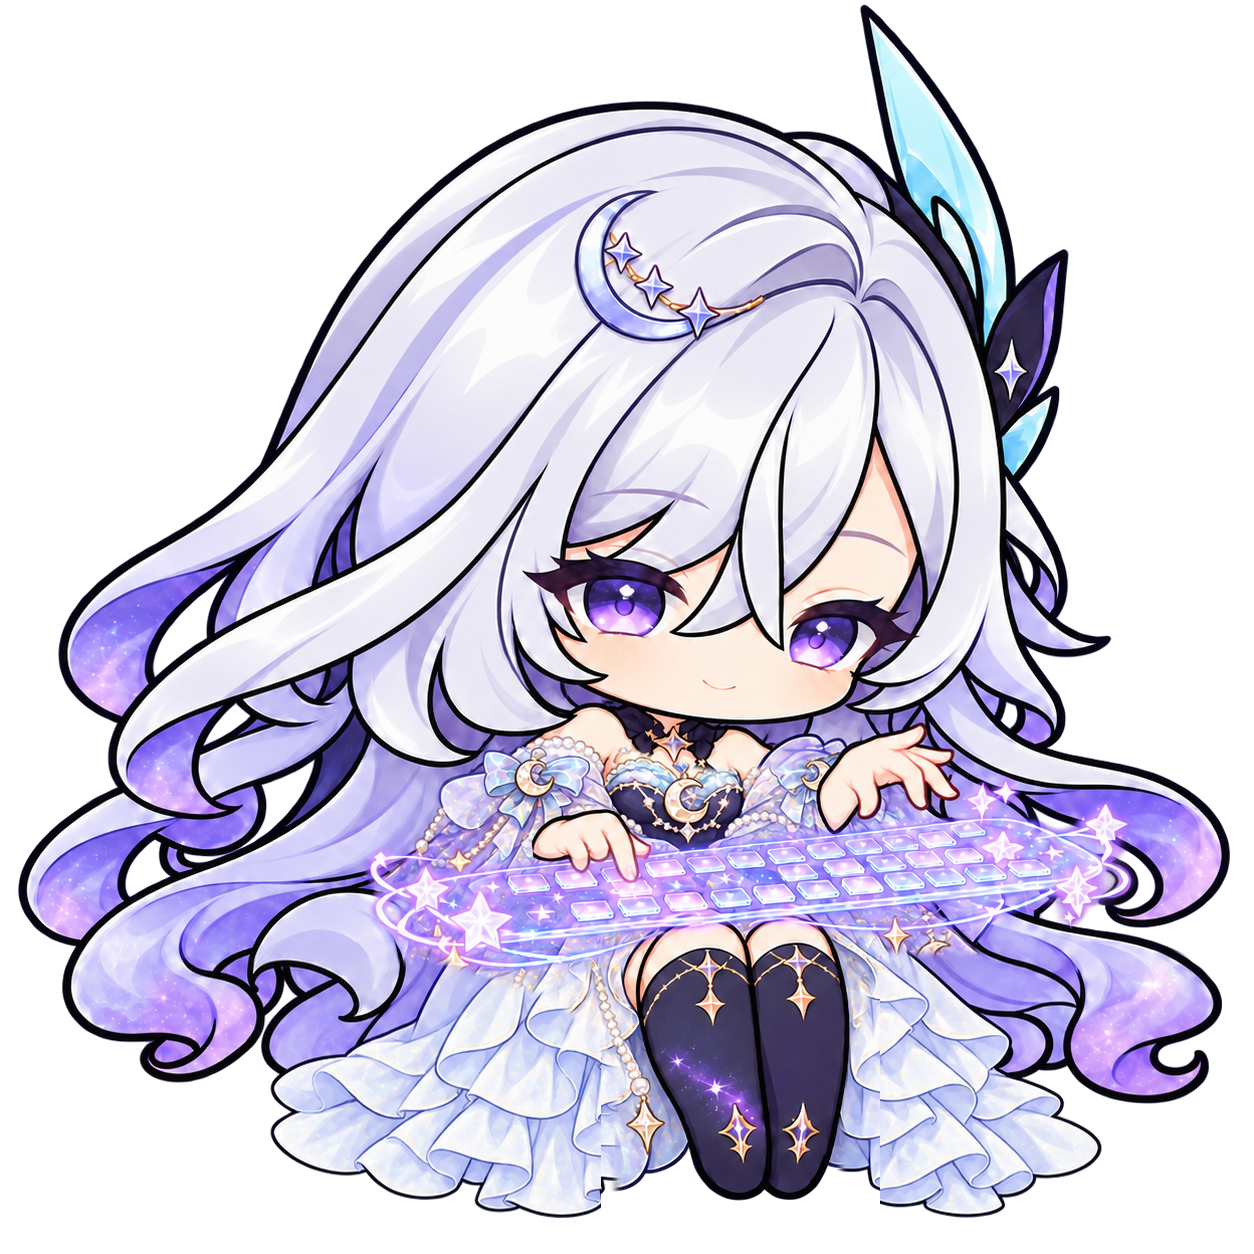
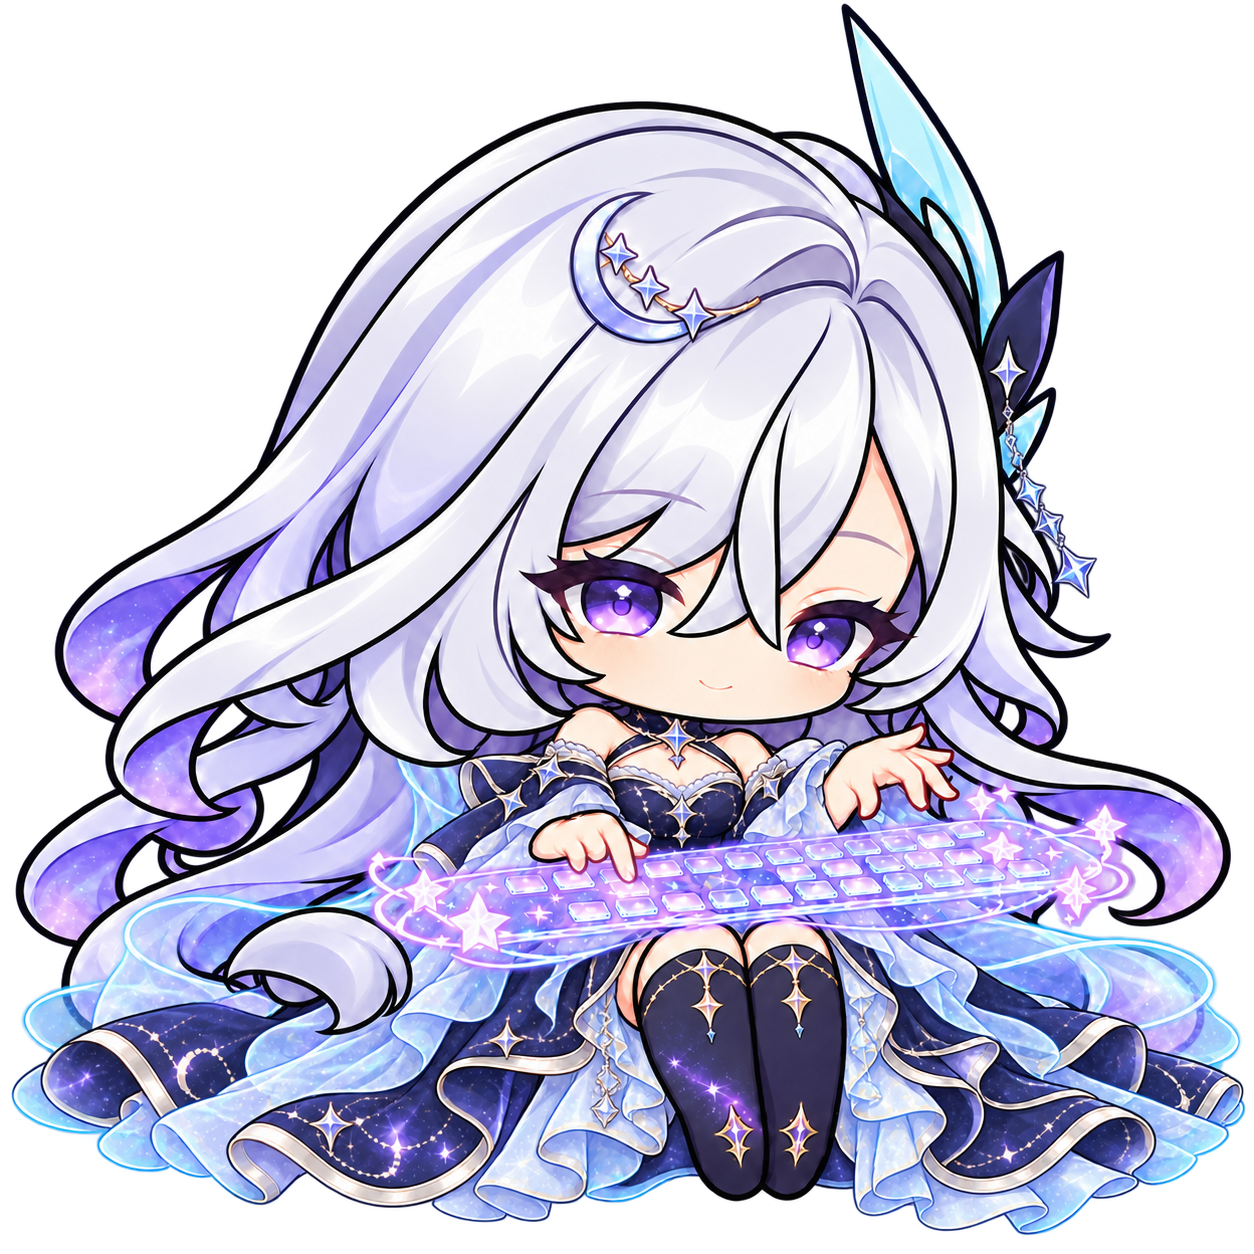
art: complete Starsea gown thinking and typing frames
Finish 100 of 110 step-one sprites with opposite-cheek thinking and the three original keyboard gestures. Validate dimensions, alpha and distinct decoded pixel data; preserve rarity costume silhouettes. Only the ten wave sprites remain; no step 2 or publishing.

diff --git a/HANDOFF.md b/HANDOFF.md
@@ -1,5 +1,6 @@
 # Current Progress
-- IN PROGRESS: 80/110 saved and inspected; next generate thinking_2 and typing_1, then typing_2/typing_3 and wave_1/wave_2. Step 1 only; built-in imagegen, no API or push.
+- IN PROGRESS: 100/110 saved and inspected; only wave_1/wave_2 in the five tiers remain. Next generate these ten sprites, run full scope/PNG/Qt decoder and visual QA, then record completed step 1 and commit locally. No API, push or step 2.
+- Milestone 100/110: thinking_2 and typing_1..3 complete for all tiers. Thoughtful opposite-cheek support and three distinct keyboard hand poses inspected in five-tier comparison sheets; keyboard retained as the existing action prop with blank keycaps. All 100 images decode at 1254x1254 RGBA with 100 unique file hashes AND 100 unique decoded pixel arrays, alpha extrema 0/255. Three known corners have alpha=1 residue (xinghai/dragged_1, fanxing/headpat_1, fanxing/typing_3); other checked corners zero. Global PySide6 is available for final native PNG-decoder validation.
 - 2026-10-13 recovery milestone: fanxing/haori sleep_1 corrected using original pose as sole image input; both visible bbox tops are y171, equal to the reference, rather than the rejected y309/y290. All five sleep_2 and thinking_1 frames completed. Sleep_2 reference bbox top y97, tier tops y96/y96/y94/y95/y94; side-lying head size/boot orientation visually retained. Sleep and thinking comparison sheet inspected. Cumulative 80 PNGs decode at 1254x1254 RGBA, have 80 unique SHA256s and alpha 0/255; only the previously documented two alpha=1 corner pixels remain. No rejected sleep frames remain in the deliverables. Thirty sprites are still outstanding.
 - Quota recheck 2026-10-12 23:04:32 -04:00: retried fanxing/sleep_1 pose correction; built-in imagegen still returns HTTP 429 usage_limit_reached, with unchanged recovery timestamp 1791926437 (2026-10-13 17:20:37 America/Toronto). No sprite changed; still 68/110 delivered, 42 outstanding. Next step remains the two sleep_1 registration fixes after recovery; no paid API or step 2.
 - **PRIOR CHECKPOINT: 68/110 DELIVERED, STEP 1 INCOMPLETE — QUOTA BLOCKED AGAIN.** 2026-10-12 continuation added 50 usable redrawn sprites to the original 18. All tiers have idle_1..4, idle_blink, celebrate_1..2, dragged_1, headpat_1..2, poked_1, sad_1 and sad_blink (65 total); mingyue/yinhe/xinghai also have sleep_1 (3 total). Root STARSEA_GOWN_PREVIEW.png still shows the five new idle_1 costumes. No step 2, paid API, code edits, merge or push.
@@ -105,7 +106,7 @@
 - Explicit Git allowlists. Current authorization permits GitHub main/tag/release as v1.3.0; APP_VERSION is promoted to1.3.0. Preserve local stable installation and unrelated .autopilot. Existing public repository and fast-forward history are retained.
 
 # Next Steps
-- [ ] (Starsea gown, highest priority) Continue every tier's `thinking_2`, `typing_1`, `typing_2`, `typing_3`, `wave_1`, `wave_2` (30 outstanding). Check alignment/continuity and rarity differences, verify full 110-file scope, refresh preview if needed, then commit the COMPLETED step 1 locally and report its hash. Do not push or switch to paid API. Step 2 requires the user's acceptance of completed step 1.
+- [ ] (Starsea gown, highest priority) Continue every tier's `wave_1`, `wave_2` (10 outstanding). Check alignment/continuity and rarity differences, verify full 110-file scope with Pillow and Qt PNG decoding, refresh preview if needed, then commit the COMPLETED step 1 locally and report its hash. Do not push or switch to paid API. Step 2 requires the user's acceptance of completed step 1.
 - [x] Human accepted V1.4; Codex V1.4 work ended.
 - [ ] Await next user assignment after V1.5 Codex-only local commit/report; user forwards shared compatibility UI and historical resize-test requirements to Claude.
 - Claude owns V1.5 shared integration/build/merge; human owns acceptance. Codex must not expand file scope, cross-review, merge, push, tag or publish.
@@ -120,7 +121,7 @@
 - No required release work remains; future changes need a new task. Local stable installation is not replaced.
 
 # Open Issues
-- Starsea gown step 1 remains incomplete at 80/110; built-in generation resumed and both rejected sleep_1 poses are repaired. Thirty original sprites still need redraws. Exact pixel registration/unchanged non-eye pixels/native integration not accepted; do not declare step 1 complete. User chose built-in generation only; do not switch to paid API. No automatic wakeup is configured/available in this session.
+- Starsea gown step 1 remains incomplete at 100/110; only ten wave sprites remain. Both rejected sleep_1 poses are repaired. Exact pixel registration/unchanged non-eye pixels/native integration not accepted; do not declare step 1 complete before remaining art and final QA. User chose built-in generation only; do not switch to paid API. No automatic wakeup is configured/available in this session.
 - Current V1.4 fixed Hub/artwork palette/project rows plus retained portrait/pager/checkbox/selection have bounded native/source and root frozen/package PASS. Fixed440x720 Hub cannot guarantee containment on smaller workareas. Human palette preference/beginner comprehension/daily usability/otherDPI and separate release approval remain pending. Synchronous locked saves take~289–311ms under the reviewed fault; local note data is plain text as documented.
 - Historical v1.3.0 candidate appearance/visual QA was accepted by the user; new V1.4 workbench human QA is pending. This does not establish exhaustive multi-monitor/fractional-DPI/tiny-workarea or physical activity detection coverage; no universal-device claim.
 - Current safe ring has up to8hits per page;24/64task universes are tested and production is not truncated to64. Whole composition requires enough workarea for body plus fixed hit footprints; impossible tiny workareas retain decoration without containment guarantee. Detail overlap/appearance remain human judgment. Synthetic poses prove rendering, not live physical keyboard/microphone/media detection.
